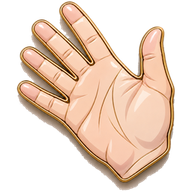
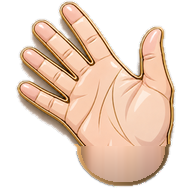
Round off the wrist so the hand ends like the wave emoji
The pin tapers to a point: 135px across at the knuckles, 23px at the very
bottom. The emoji Jose pointed at ends in a broad rounded wrist. So the hand
is cut where it is still wide and capped with a half-ellipse, gold-rimmed to
match the rest of the pin.

Four things went wrong first, each worth writing down:

  THE GOLD. The first rim sample came back a pale peach. The chroma
  threshold was loose enough to admit the enamel, and the median landed
  between the two. Only genuinely metallic pixels count now.

  THE FILL. The cap inherited a grey wash wherever the hand had not reached,
  because the source colour was averaged across a whole row -- including the
  leftover shadow beside the hand. Each column now takes its own last few
  solid pixels above the cut.

  THE OLD RIM. Keeping the original art below the cut left its rim drawn
  inside the new end, reading as a gold line ruled across the wrist. The
  whole cap is repainted instead.

  STREAKING. Carrying each column straight down dragged every palm crease at
  the cut line into a vertical stripe running the length of the wrist. The
  source colours are smoothed across columns before the carry.

Cut at y=146 of 192, 40px cap, so the silhouette ends at y=186 against 190
before -- same footprint, same 192px frame, no reframing needed. 48KB.

Measured live: still fits the 44px target at phone, narrow and desktop, and
taps still land on the button.

Claude-Session: https://claude.ai/code/session_0125S7ePWNAmXdv3F3qCx3ib

diff --git a/index.html b/index.html
@@ -14500,7 +14500,7 @@ const MOTIVATIONAL_QUOTES = [
 // Build stamp. Shown in the More sheet and logged to the console so it's
 // possible to tell, from the phone, exactly which deploy is running — cache
 // problems and "did that upload actually land?" are otherwise guesswork.
-const BUILD_ID = 'b0919.1819';
+const BUILD_ID = 'b0919.1830';
 const BUILD_TIME = '2026-09-15 18:13 UTC';
 console.log('Interpreter Hub build', BUILD_ID, BUILD_TIME);
 

diff --git a/sw.js b/sw.js
@@ -26,7 +26,7 @@
  * the scenario this cache exists for in the first place).
  */
 
-const CACHE_VERSION = 'interpreter-hub-v88-dense-spiral';
+const CACHE_VERSION = 'interpreter-hub-v89-round-wrist';
 const PRECACHE = [
   './',
   './index.html',
